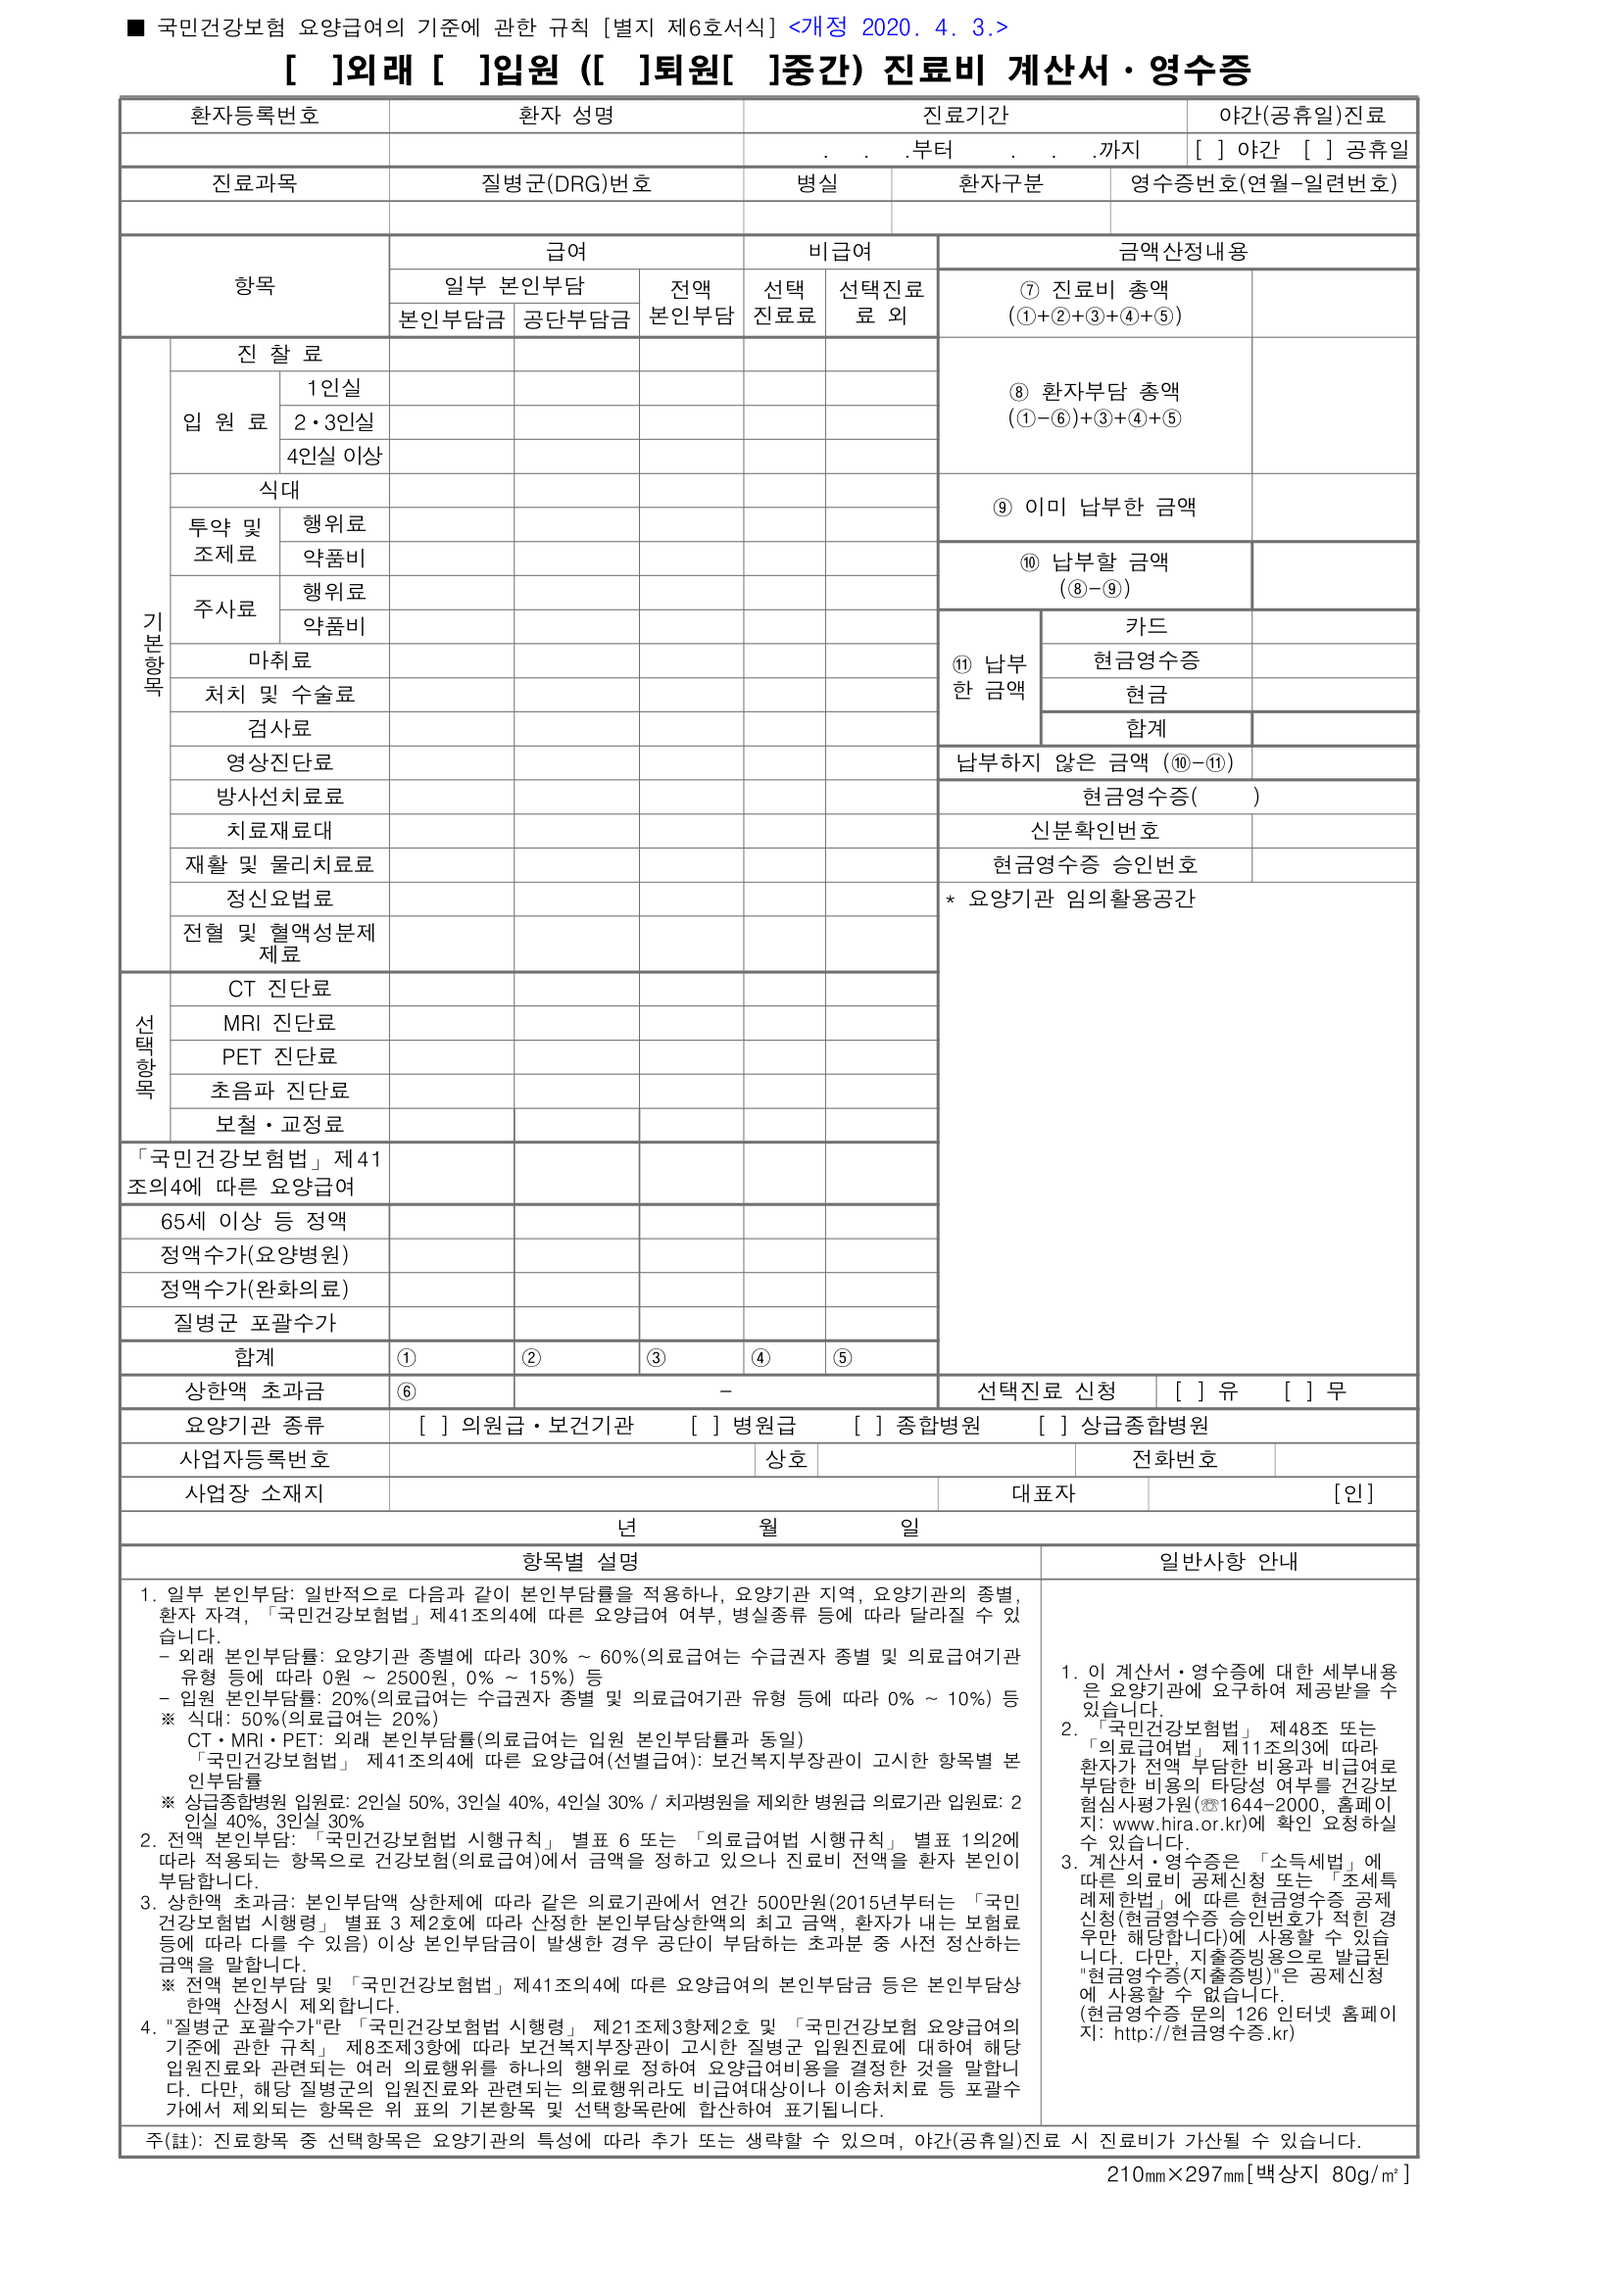
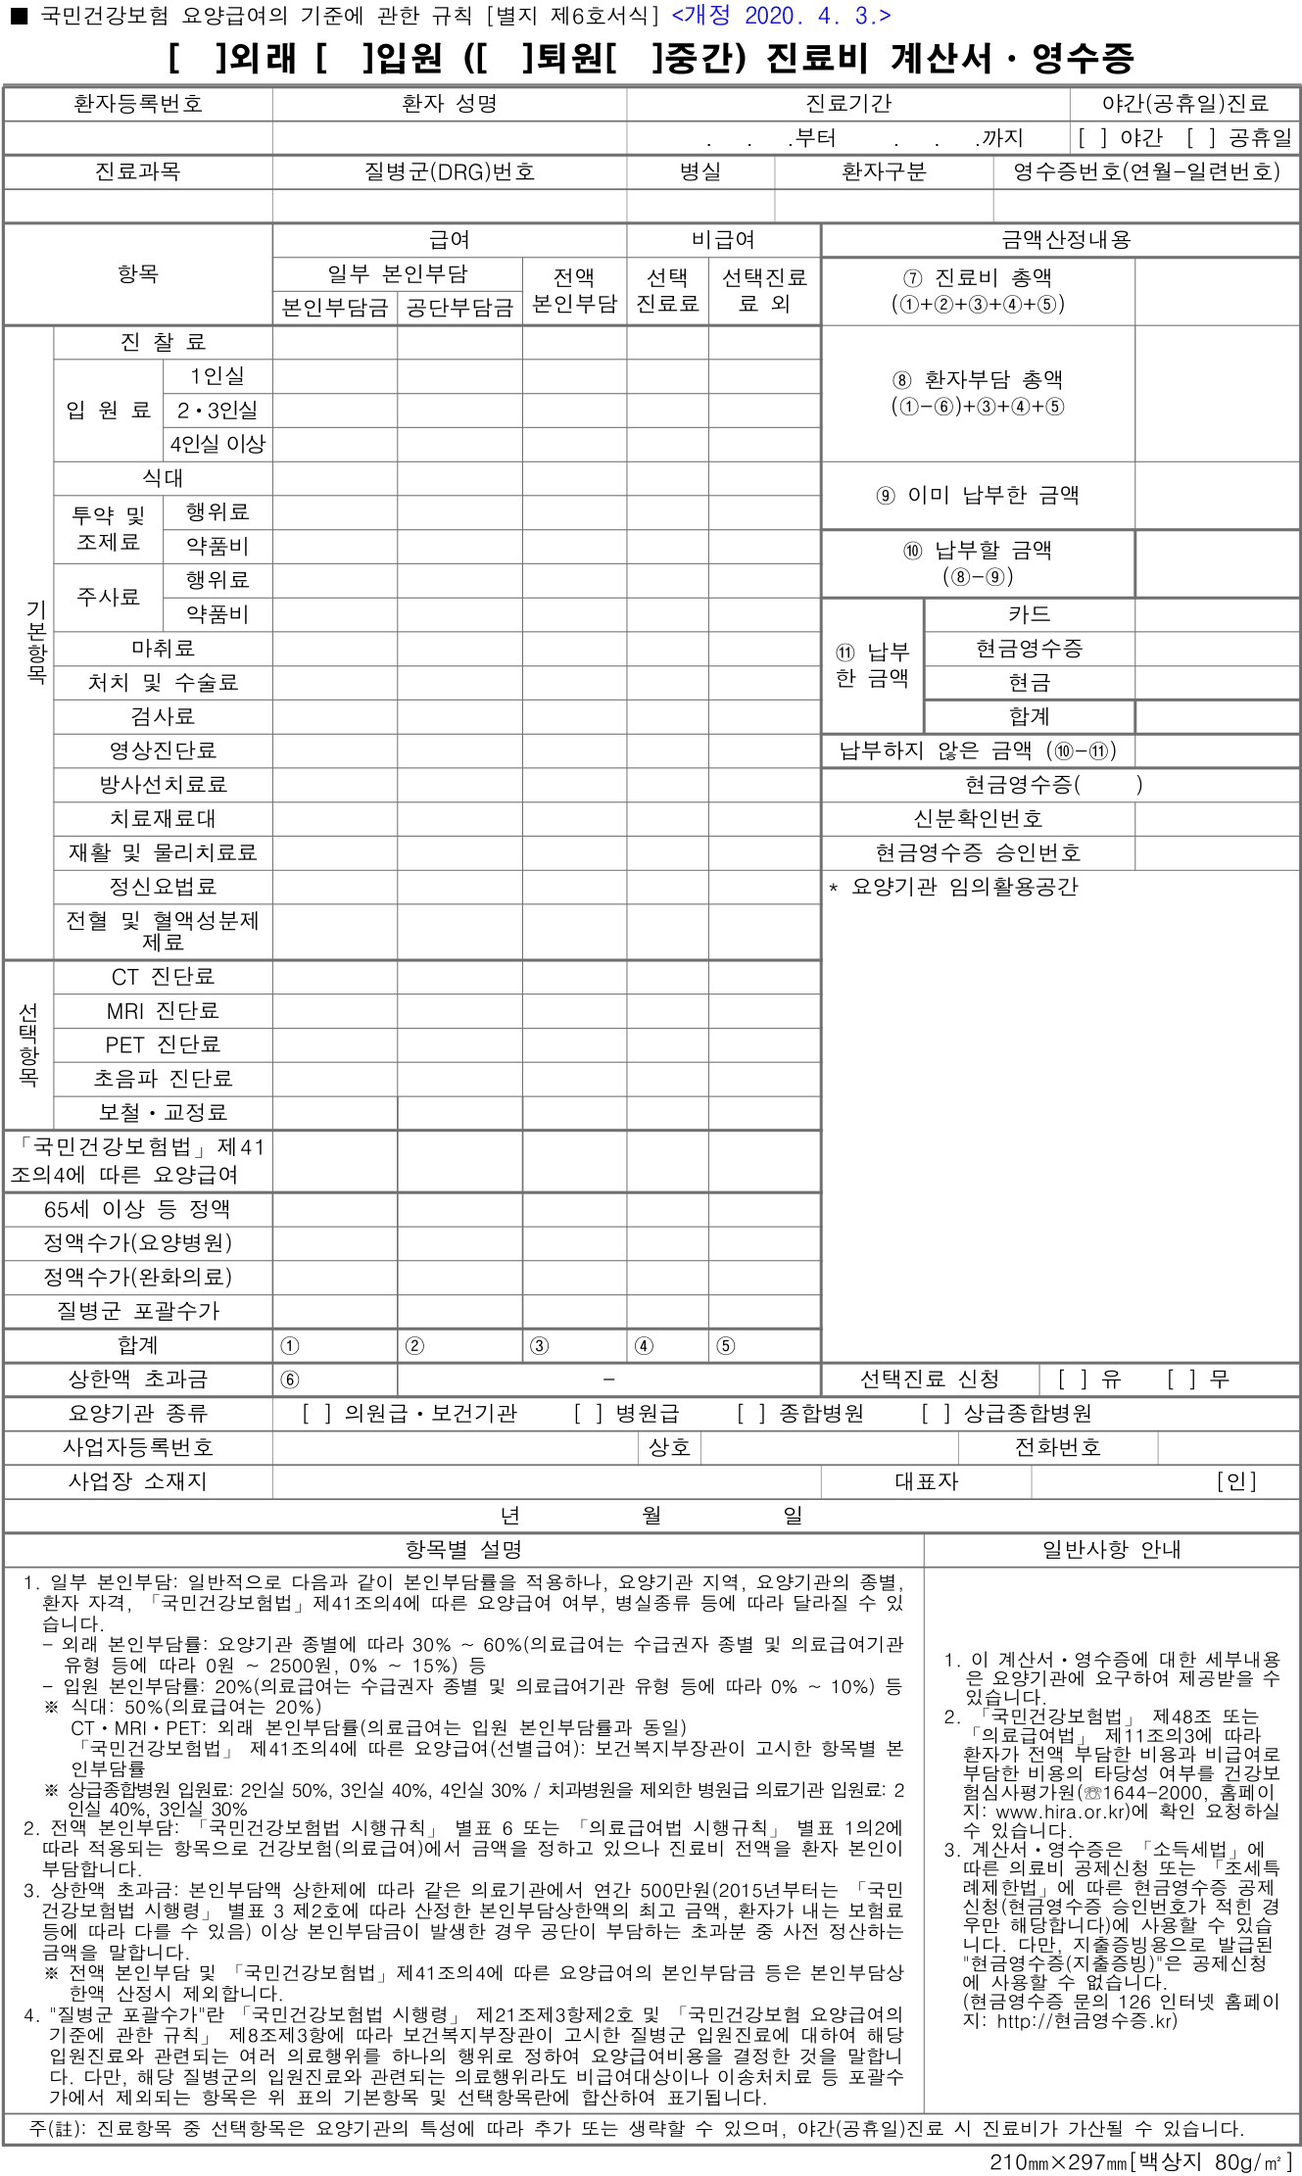
# EDIT : JPG to PNG

Changed region(s): [[0.0, 0.0, 1.0, 1.0]]

diff --git a/src/views/receipt/index.vue b/src/views/receipt/index.vue
@@ -537,7 +537,7 @@ export default {
 	computed: {
 		styleObject() {
 			return {
-				'background-image': `url(${require('../../assets/receipt.jpg')})`,
+				'background-image': `url(${require('../../assets/receipt.png')})`,
 				'background-repeat': 'round',
 				width: '640px',
 				height: '1080px',
